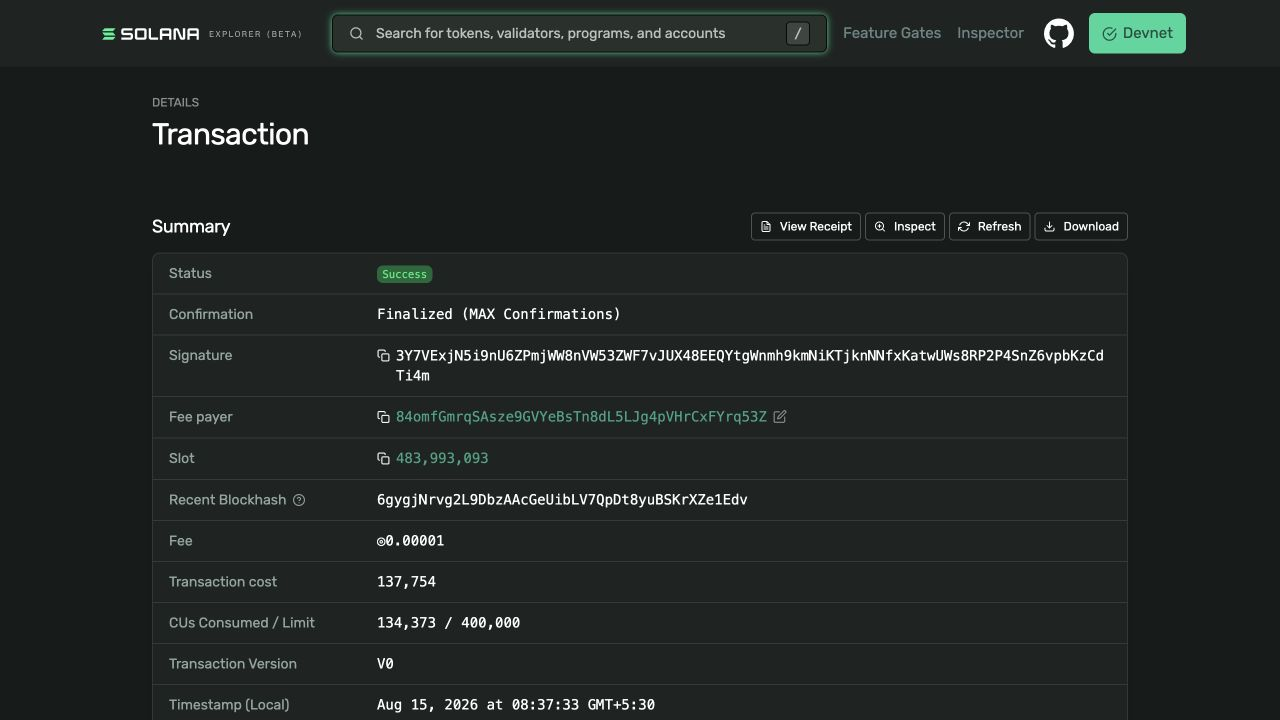
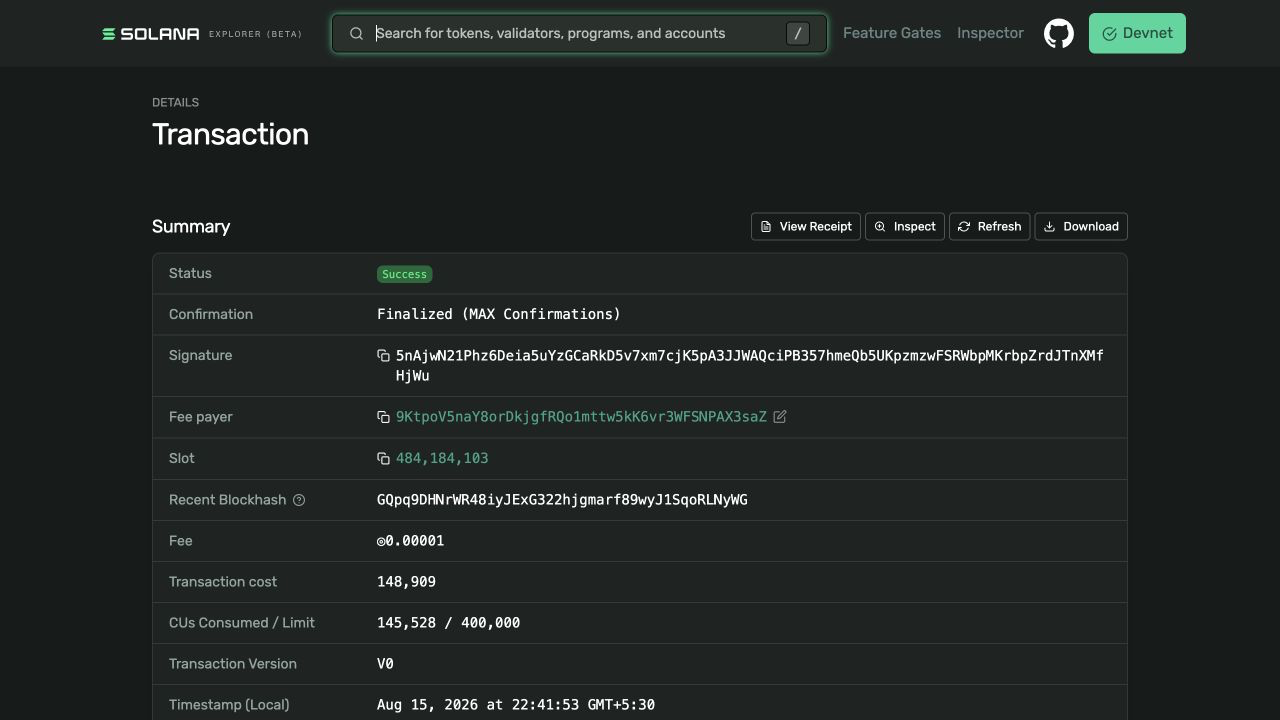
Finalize live submission evidence

diff --git a/submission-assets/VERIFICATION.md b/submission-assets/VERIFICATION.md
@@ -9,7 +9,8 @@ After promoting the sponsor routes to the public deployment, BarkPass returned:
 - Gemini: HTTP 200 for a licensed real dog photo; `Playful`, energy `10/10`, structured posture notes and `provider: gemini`
 - ElevenLabs: HTTP 200, a 52,288-byte MPEG voice note and `x-barkpass-provider: ElevenLabs`
 - Snowflake: a live Maple profile write, three dog-scoped check-in writes and a grounded query with average energy `6.7` and range `5` to `8`
-- Public status: Gemini, ElevenLabs and Snowflake live; Solana visibly labelled demo while the replacement devnet vault awaits faucet verification
+- Solana: a live unsigned 0.01 SOL shelter-tip transaction and a new Production mint finalized without error
+- Public status: Gemini, ElevenLabs, Snowflake and Solana all live
 
 ## Five-photo Gemini acceptance set
 
@@ -33,15 +34,15 @@ The migrated ElevenLabs credential was rechecked through BarkPass and returned H
 
 ## Solana
 
-The live server prepared an unsigned 0.01 SOL devnet shelter-tip transaction. The approved Luna BarkPass mint was then broadcast and finalized successfully on Solana devnet.
+The public Production server prepared an unsigned 0.01 SOL devnet shelter-tip transaction. Maple's BarkPass mint was then broadcast and finalized successfully on Solana devnet.
 
-- Mint: `AAutLzLLaXR74Dfr1jtJdftQunCtQu7P6QzrYNoPmeK3`
-- [Mint on Solana Explorer](https://explorer.solana.com/address/AAutLzLLaXR74Dfr1jtJdftQunCtQu7P6QzrYNoPmeK3?cluster=devnet)
-- [Finalized mint transaction](https://explorer.solana.com/tx/3Y7VExjN5i9nU6ZPmjWW8nVW53ZWF7vJUX48EEQYtgWnmh9kmNiKTjknNNfxKatwUWs8RP2P4SnZ6vpbKzCdTi4m?cluster=devnet)
-- RPC verification: finalized with no error; mint initialized with supply `1` and `0` decimals
+- Mint: `B3FRp9ndjjiVbFwb7MKruabsHicPQQCnL6JdksErEWwa`
+- [Mint on Solana Explorer](https://explorer.solana.com/address/B3FRp9ndjjiVbFwb7MKruabsHicPQQCnL6JdksErEWwa?cluster=devnet)
+- [Finalized mint transaction](https://explorer.solana.com/tx/5nAjwN21Phz6Deia5uYzGCaRkD5v7xm7cjK5pA3JJWAQciPB357hmeQb5UKpzmzwFSRWbpMKrbpZrdJTnXMfHjWu?cluster=devnet)
+- RPC verification: `finalized`, no error; Explorer shows `Maple's BarkPass`, symbol `BARK`, token standard `Non-Fungible` and the dog-specific metadata URI
 - Public metadata: verified from `https://barkpass-dog-days.vercel.app/api/passport-metadata`
-- Migrated vault: `9RjmJveGakYhFM8EA13Gx5aT4sMtdqxXWtbXXFfgqX7E`, funded with `0.5` devnet SOL
-- New-vault proof: BarkPass returned a live unsigned 0.01 SOL transaction with the migrated vault as shelter; no additional NFT was broadcast during the migration
+- Production vault: `9KtpoV5naY8orDkjgfRQo1mttw5kK6vr3WFSNPAX3saZ`, funded with `0.5` devnet SOL before the mint
+- New-vault proof: BarkPass returned the new vault as the live tip shelter and the Explorer transaction lists it as mint authority and fee payer
 
 The shelter tip is still unsigned because its final broadcast requires the owner's Phantom approval.
 
@@ -53,12 +54,12 @@ The new 120-day student trial is active. Setup and proof used:
 - Warehouse: `BARKPASS_WH` (X-Small, 60-second auto-suspend)
 - Database/schema: `BARKPASS.PUBLIC`
 - Runtime identity: `BARKPASS_APP_USER`, a service user with key-pair authentication and a least-privilege `BARKPASS_APP_ROLE`
-- Live dog profile write: `dog_luna_123` / Luna
-- Live check-ins: three rows dated August 13 to 15, 2026 with energy values 6, 8, and 7
-- Grounded API answer: “Across 3 Snowflake check-ins, Luna averaged 7.0 out of 10. Energy ranged from 6 to 8 and finished higher compared with the first saved day.”
-- Independent worksheet aggregate: `dog_luna_123` | `3` check-ins | `7.0` average | `6` minimum | `8` maximum
+- Live Production dog profile write: `dog_prod_maple_0815` / Maple
+- Live Production check-ins: three rows dated August 13 to 15, 2026 with energy values 5, 7, and 8
+- Grounded API answer: “Across 3 Snowflake check-ins, Maple averaged 6.7 out of 10. Energy ranged from 5 to 8 and finished higher compared with the first saved day.”
+- Fresh independent worksheet aggregate: `dog_prod_maple_0815` | `3` check-ins | `6.7` average | `5` minimum | `8` maximum
 
-![Snowflake worksheet aggregate proof](./04-snowflake-proof.png)
+![Snowflake worksheet aggregate proof](./03-snowflake-result.jpg)
 
 ## Build checks
 

diff --git a/DEV_SUBMISSION.md b/DEV_SUBMISSION.md
@@ -41,7 +41,7 @@ The clean app route begins with onboarding. Add a real dog profile, choose a pho
 
 The Bruno route is only an optional sample story. A history product needs several days before its most interesting screen makes sense, so the sample provides seven check-ins immediately. It is not a separate build or a hidden judging route.
 
-![BarkPass personalized daily check-in for Milo with three live provider routes, visible mood, energy, posture and voice results](https://raw.githubusercontent.com/himanshu748/barkpass-dog-days/main/submission-assets/02-app-checkin.png)
+![BarkPass personalized daily check-in for Milo with all four provider routes live, plus visible mood, energy, posture and voice results](https://raw.githubusercontent.com/himanshu748/barkpass-dog-days/main/submission-assets/02-app-checkin.png)
 
 ## The product flow
 
@@ -148,9 +148,9 @@ The returned sentence is calculated from those energy values and mood counts. Ba
 
 The deployment uses an X-Small auto-suspending warehouse and a dedicated service user. Key-pair authentication is preferred over a password, and the runtime role is limited to BarkPass's database, schema, tables and warehouse.
 
-In live verification, BarkPass stored Luna and three check-ins with energy values 6, 8 and 7. The API reported an average of 7.0, a range of 6 to 8 and a higher final value. A direct Snowflake worksheet aggregate independently returned the same row count, average, minimum and maximum.
+In live Production verification, BarkPass stored Maple and three check-ins with energy values 5, 7 and 8. The API reported an average of 6.7, a range of 5 to 8 and a higher final value. A fresh Snowflake worksheet aggregate independently returned the same row count, average, minimum and maximum.
 
-![Snowflake aggregate result for Luna's three stored check-ins](https://raw.githubusercontent.com/himanshu748/barkpass-dog-days/main/submission-assets/03-snowflake-result.jpg)
+![Fresh Snowflake worksheet aggregate for Maple's three Production check-ins](https://raw.githubusercontent.com/himanshu748/barkpass-dog-days/main/submission-assets/03-snowflake-result.jpg)
 
 Snowflake is not an analytics screenshot added after the product. It is why BarkPass can answer **"Has her energy changed?"** with the supporting numbers beside the sentence.
 
@@ -160,7 +160,7 @@ A pet passport is more useful when it is not trapped inside one application's da
 
 The mint endpoint validates the dog first, then generates a public metadata URL containing name, breed, age, microchip ID and vaccination date. Metaplex creates a one-of-one NFT on Solana devnet with symbol `BARK`, zero royalties and BarkPass's server vault as the mint authority.
 
-Luna's BarkPass was minted successfully as [`AAutLzLLaXR74Dfr1jtJdftQunCtQu7P6QzrYNoPmeK3`](https://explorer.solana.com/address/AAutLzLLaXR74Dfr1jtJdftQunCtQu7P6QzrYNoPmeK3?cluster=devnet). The [mint transaction](https://explorer.solana.com/tx/3Y7VExjN5i9nU6ZPmjWW8nVW53ZWF7vJUX48EEQYtgWnmh9kmNiKTjknNNfxKatwUWs8RP2P4SnZ6vpbKzCdTi4m?cluster=devnet) finalized without error. RPC verification shows an initialized mint with supply one and zero decimals.
+Maple's BarkPass was minted from the public Production route as [`B3FRp9ndjjiVbFwb7MKruabsHicPQQCnL6JdksErEWwa`](https://explorer.solana.com/address/B3FRp9ndjjiVbFwb7MKruabsHicPQQCnL6JdksErEWwa?cluster=devnet). The [mint transaction](https://explorer.solana.com/tx/5nAjwN21Phz6Deia5uYzGCaRkD5v7xm7cjK5pA3JJWAQciPB357hmeQb5UKpzmzwFSRWbpMKrbpZrdJTnXMfHjWu?cluster=devnet) finalized without error. Explorer shows the `BARK` non-fungible token, Maple's public metadata URL and BarkPass's new funded devnet vault as authority.
 
 ![Finalized BarkPass mint transaction on Solana devnet](https://raw.githubusercontent.com/himanshu748/barkpass-dog-days/main/submission-assets/04-solana-finalized.png)
 

diff --git a/README.md b/README.md
@@ -4,9 +4,9 @@ BarkPass is a responsive AI wellness passport for any dog. The root route is an 
 
 Public BarkPass app: https://barkpass-dog-days.vercel.app/app
 
-Published DEV Challenge submission: https://dev.to/himanshu_748/barkpass-an-ai-wellness-passport-that-lets-dogs-speak-53d0
+Detailed DEV Challenge submission draft: [`DEV_SUBMISSION.md`](./DEV_SUBMISSION.md). It remains intentionally unpublished until the final public-post confirmation.
 
-Optional sample story: open https://barkpass-dog-days.vercel.app/app?sample=1 to load Bruno's seven-day history immediately. From there, a visitor can ask a grounded trend question, inspect the four-track status panel, connect the labeled demo wallet, and open verified Solana devnet proof. Creating a new BarkPass still starts with a clean dog-specific profile and history. The earlier `?demo=1` link remains compatible.
+Optional sample story: open https://barkpass-dog-days.vercel.app/app?sample=1 to load Bruno's seven-day history immediately. From there, a visitor can ask a grounded trend question, inspect the all-live four-track status panel, connect Phantom, and open verified Solana devnet proof. Creating a new BarkPass still starts with a clean dog-specific profile and history. The earlier `?demo=1` link remains compatible.
 
 ## Run locally
 
@@ -32,7 +32,7 @@ Protected Vercel deployments keep sponsor credentials server-side. Their sensiti
 
 Live Preview verification on August 15, 2026 confirmed Gemini structured image analysis, an ElevenLabs MP3 response, unsigned Solana devnet tip preparation, and a real Snowflake write/query path. All four sponsor integrations now live on the protected `barkpass-dog-days` Preview; the obsolete Ember project was removed after migration. A Luna profile and three dog-scoped check-ins were persisted in `BARKPASS.PUBLIC`; the returned answer reported an average energy of 7.0 and a range of 6 to 8. The browser still keeps profiles and history usable through the explicitly labeled local fallback when a sponsor service is unavailable.
 
-The public Production deployment now runs Gemini, ElevenLabs and Snowflake through same-origin server functions while keeping their credentials unreadable to the browser. A real-photo Gemini request, a playable ElevenLabs MP3, a Snowflake dog-profile write and a three-row grounded query were re-verified after the Production migration. Solana stays explicitly labelled as demo until the replacement devnet vault is funded; the previously finalized mint remains linked as independently verifiable proof.
+The public Production deployment now runs all four sponsor routes through same-origin server functions while keeping their credentials unreadable to the browser. A real-photo Gemini request, a playable ElevenLabs MP3, a Snowflake dog-profile write and three-row grounded query, an unsigned Solana shelter tip and a new finalized devnet passport mint were re-verified after the Production migration.
 
 The app exposes these endpoints:
 
